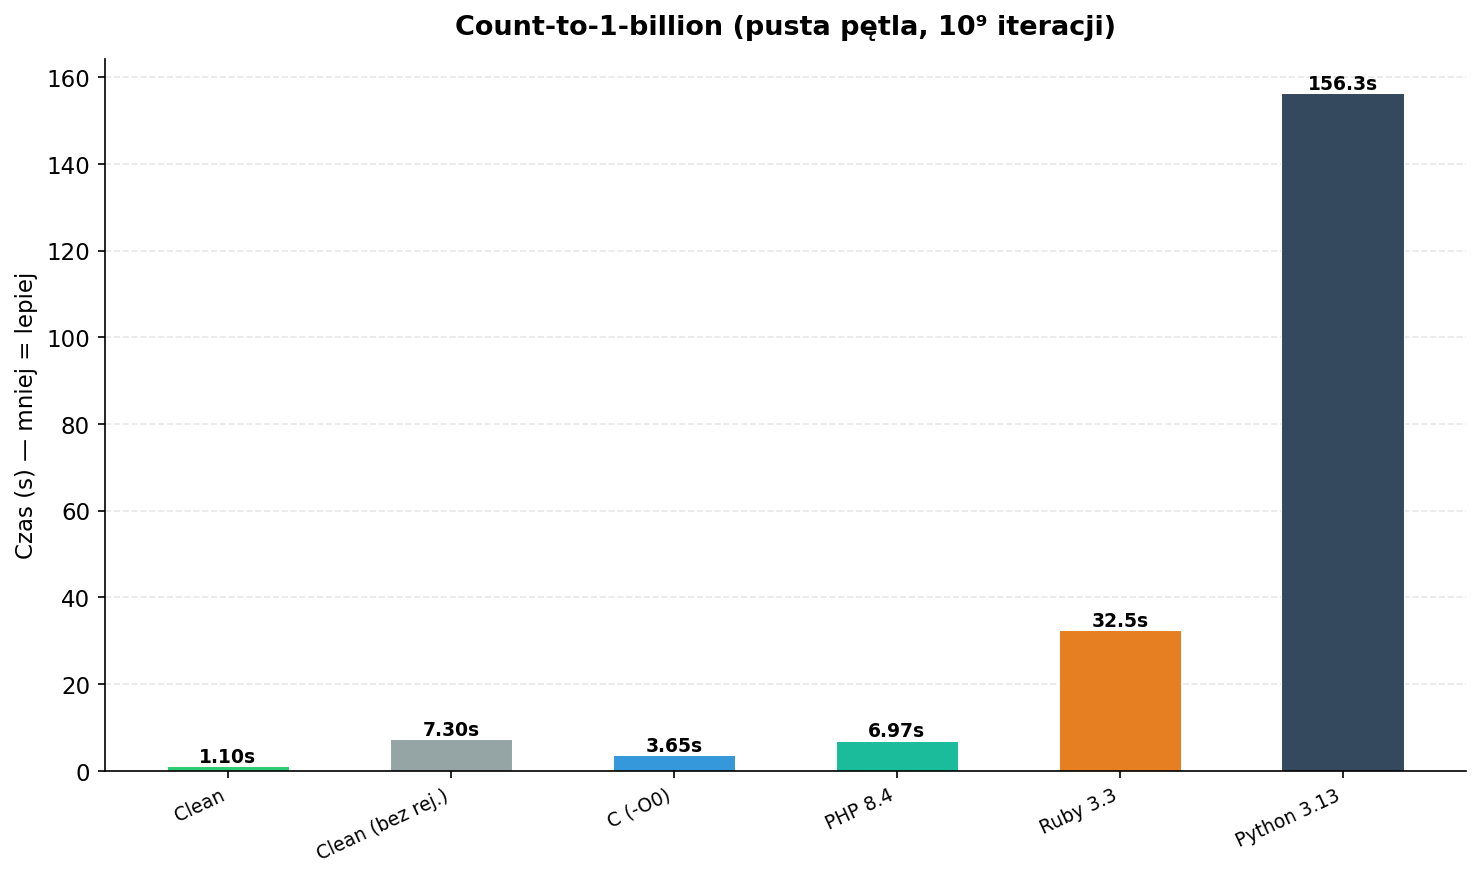
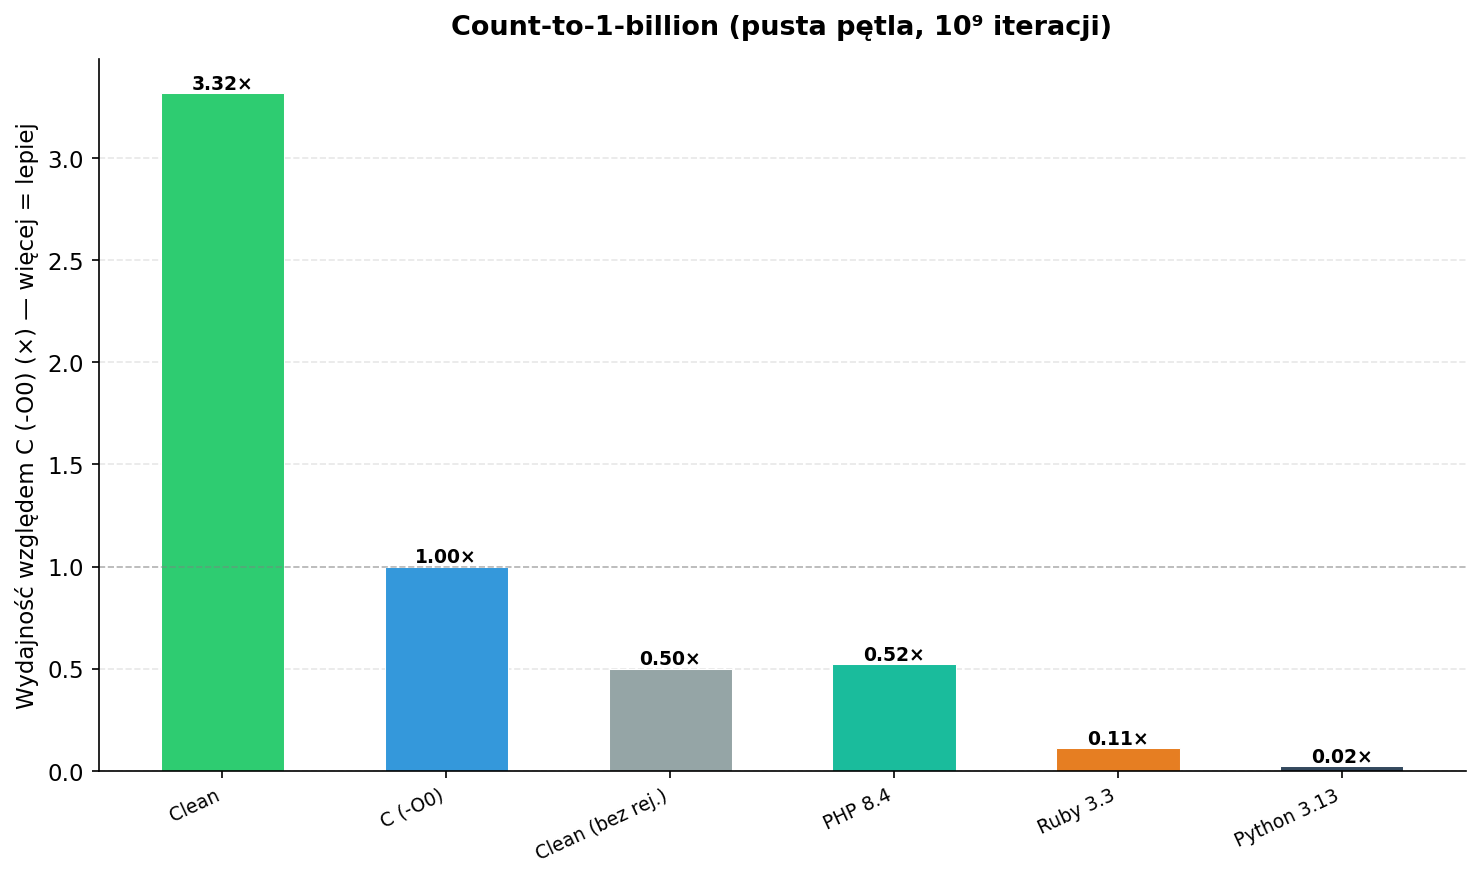
Count chart: wydajność względem C (×) — więcej = lepiej
Wykres count benchmark pokazuje teraz krotność wydajności względem C (-O0), gdzie 1.0× = poziom C, wyższe słupki = lepiej.

diff --git a/tools/gen_charts.py b/tools/gen_charts.py
@@ -42,20 +42,29 @@ def make_chart(data, title, ylabel, filename, highlight_clean=True):
     
     bars = ax.bar(x, values, width, color=colors, edgecolor='white', linewidth=0.5)
     
+    suffix = ylabel.split('|')[-1] if '|' in ylabel else 's'
     for bar, val in zip(bars, values):
-        if val >= 10:
+        if val >= 100:
             ax.text(bar.get_x() + bar.get_width()/2., bar.get_height(),
-                    f'{val:.1f}s', ha='center', va='bottom', fontsize=9, fontweight='bold')
+                    f'{val:.1f}{suffix}', ha='center', va='bottom', fontsize=9, fontweight='bold')
+        elif val >= 10:
+            ax.text(bar.get_x() + bar.get_width()/2., bar.get_height(),
+                    f'{val:.1f}{suffix}', ha='center', va='bottom', fontsize=9, fontweight='bold')
         elif val >= 1:
             ax.text(bar.get_x() + bar.get_width()/2., bar.get_height(),
-                    f'{val:.2f}s', ha='center', va='bottom', fontsize=9, fontweight='bold')
+                    f'{val:.2f}{suffix}', ha='center', va='bottom', fontsize=9, fontweight='bold')
         else:
             ax.text(bar.get_x() + bar.get_width()/2., bar.get_height(),
-                    f'{val:.2f}s', ha='center', va='bottom', fontsize=9, fontweight='bold')
+                    f'{val:.2f}{suffix}', ha='center', va='bottom', fontsize=9, fontweight='bold')
+    
+    # add dashed baseline at 1.0 for relative-performance charts
+    has_baseline = any(v == 1.0 or ('|' in ylabel) for v in values)
+    if has_baseline:
+        ax.axhline(y=1.0, color='gray', linestyle='--', linewidth=0.8, alpha=0.5)
     
     ax.set_xticks(x)
     ax.set_xticklabels(labels, rotation=25, ha='right', fontsize=9)
-    ax.set_ylabel(ylabel, fontsize=11)
+    ax.set_ylabel(ylabel.split('|')[0] if '|' in ylabel else ylabel, fontsize=11)
     ax.set_title(title, fontsize=13, fontweight='bold', pad=12)
     ax.set_axisbelow(True)
     ax.yaxis.grid(True, linestyle='--', alpha=0.3)
@@ -72,14 +81,14 @@ benchmarks = [
     {
         'file': 'bench/count_bench.png',
         'title': 'Count-to-1-billion (pusta pętla, 10⁹ iteracji)',
-        'ylabel': 'Czas (s) — mniej = lepiej',
+        'ylabel': 'Wydajność względem C (-O0) (×) — więcej = lepiej|×',
         'data': [
-            ('Clean', 1.10),
-            ('Clean (bez rej.)', 7.30),
-            ('C (-O0)', 3.65),
-            ('PHP 8.4', 6.97),
-            ('Ruby 3.3', 32.52),
-            ('Python 3.13', 156.32),
+            ('Clean', 3.65/1.10),
+            ('C (-O0)', 1.00),
+            ('Clean (bez rej.)', 3.65/7.30),
+            ('PHP 8.4', 3.65/6.97),
+            ('Ruby 3.3', 3.65/32.52),
+            ('Python 3.13', 3.65/156.32),
         ],
     },
     {